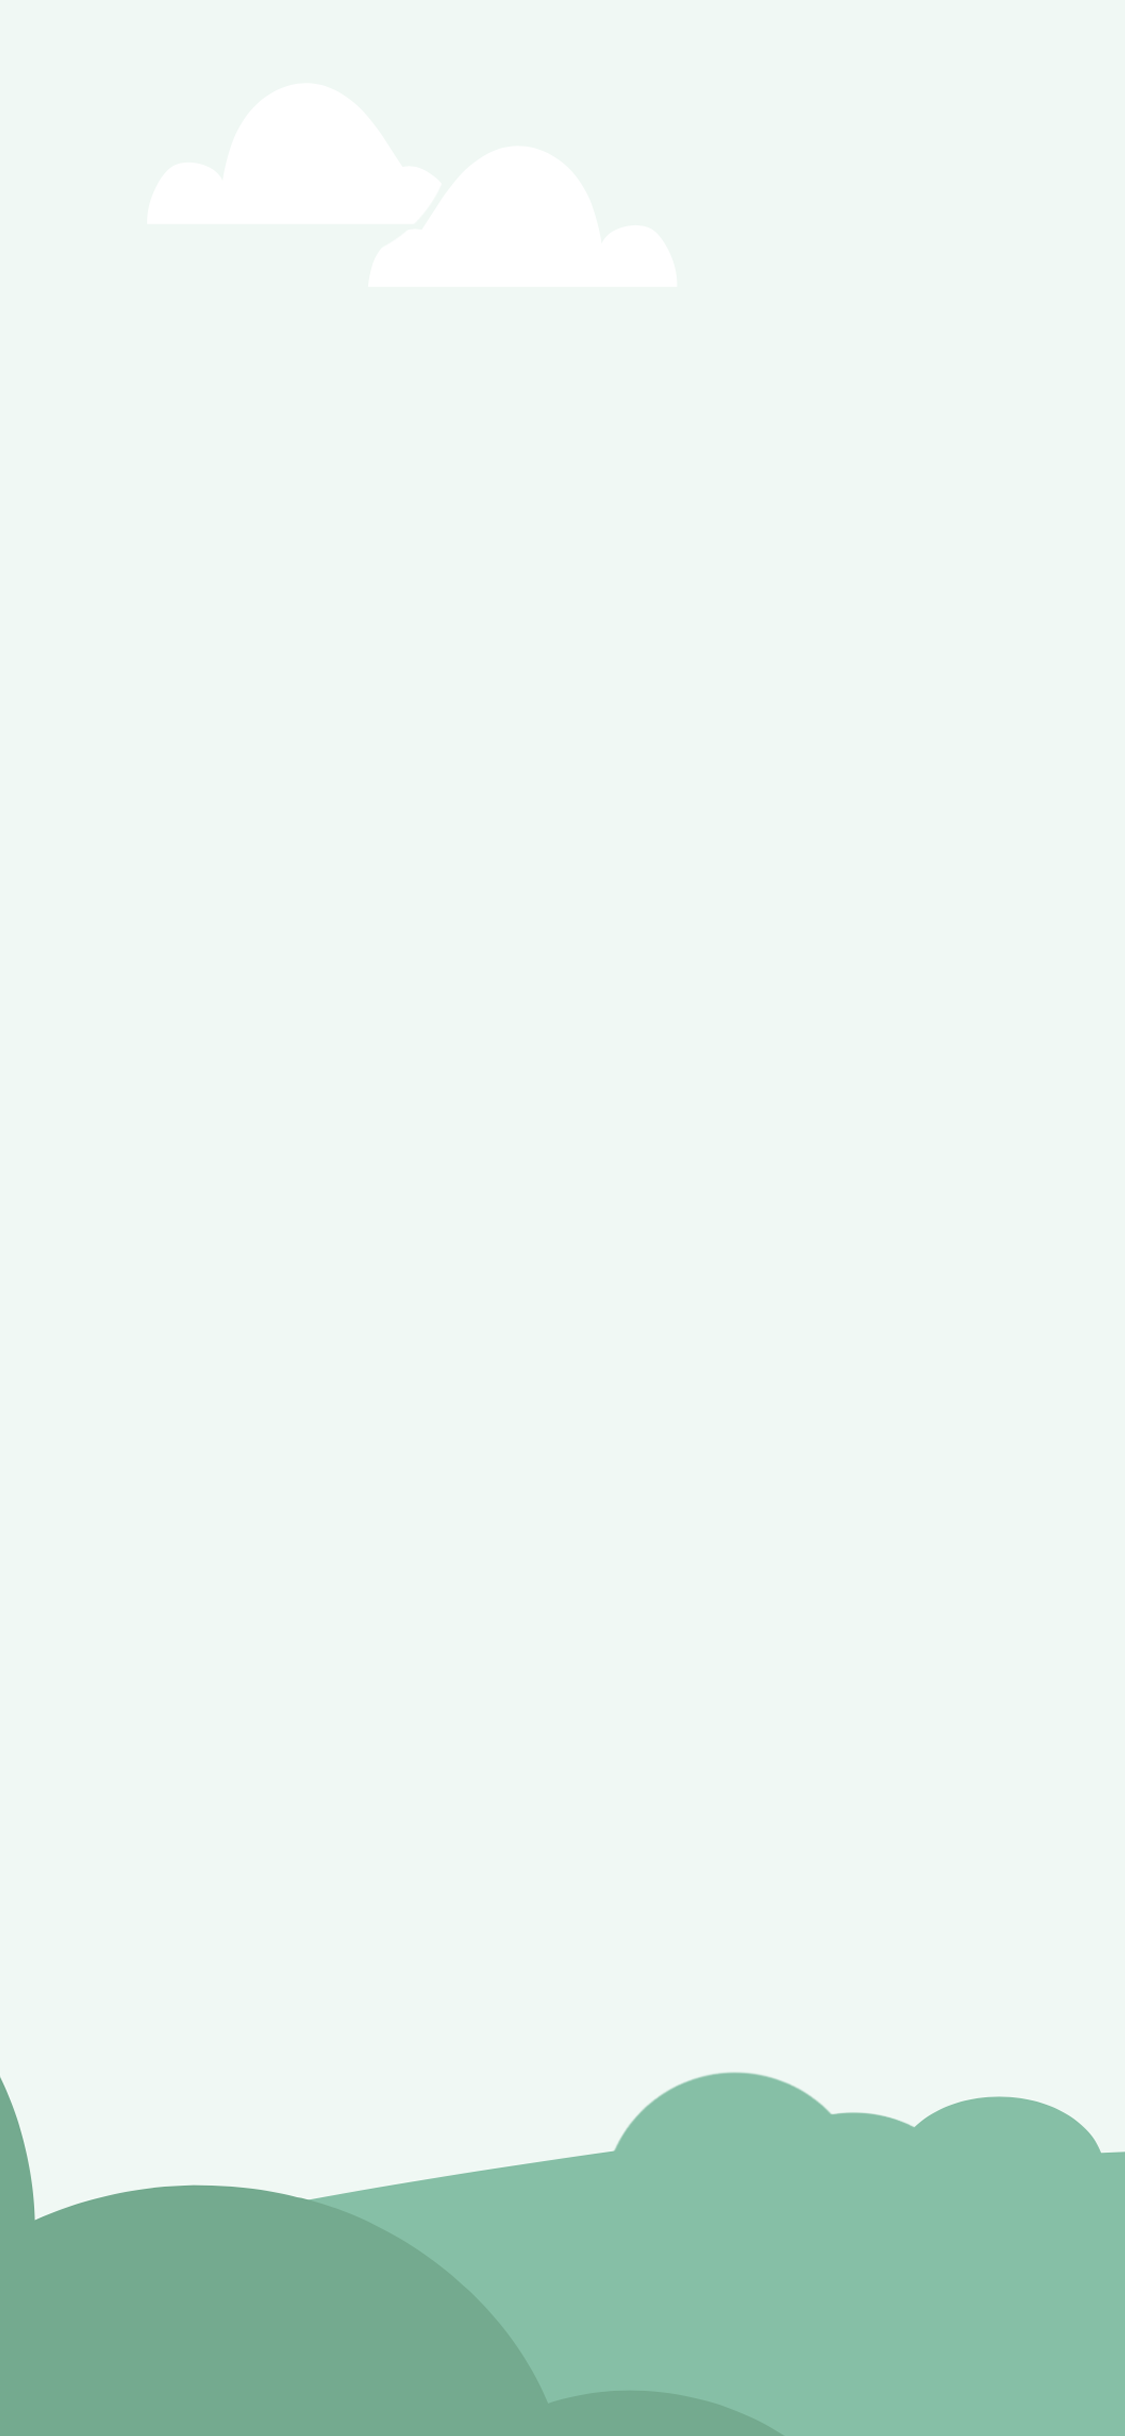
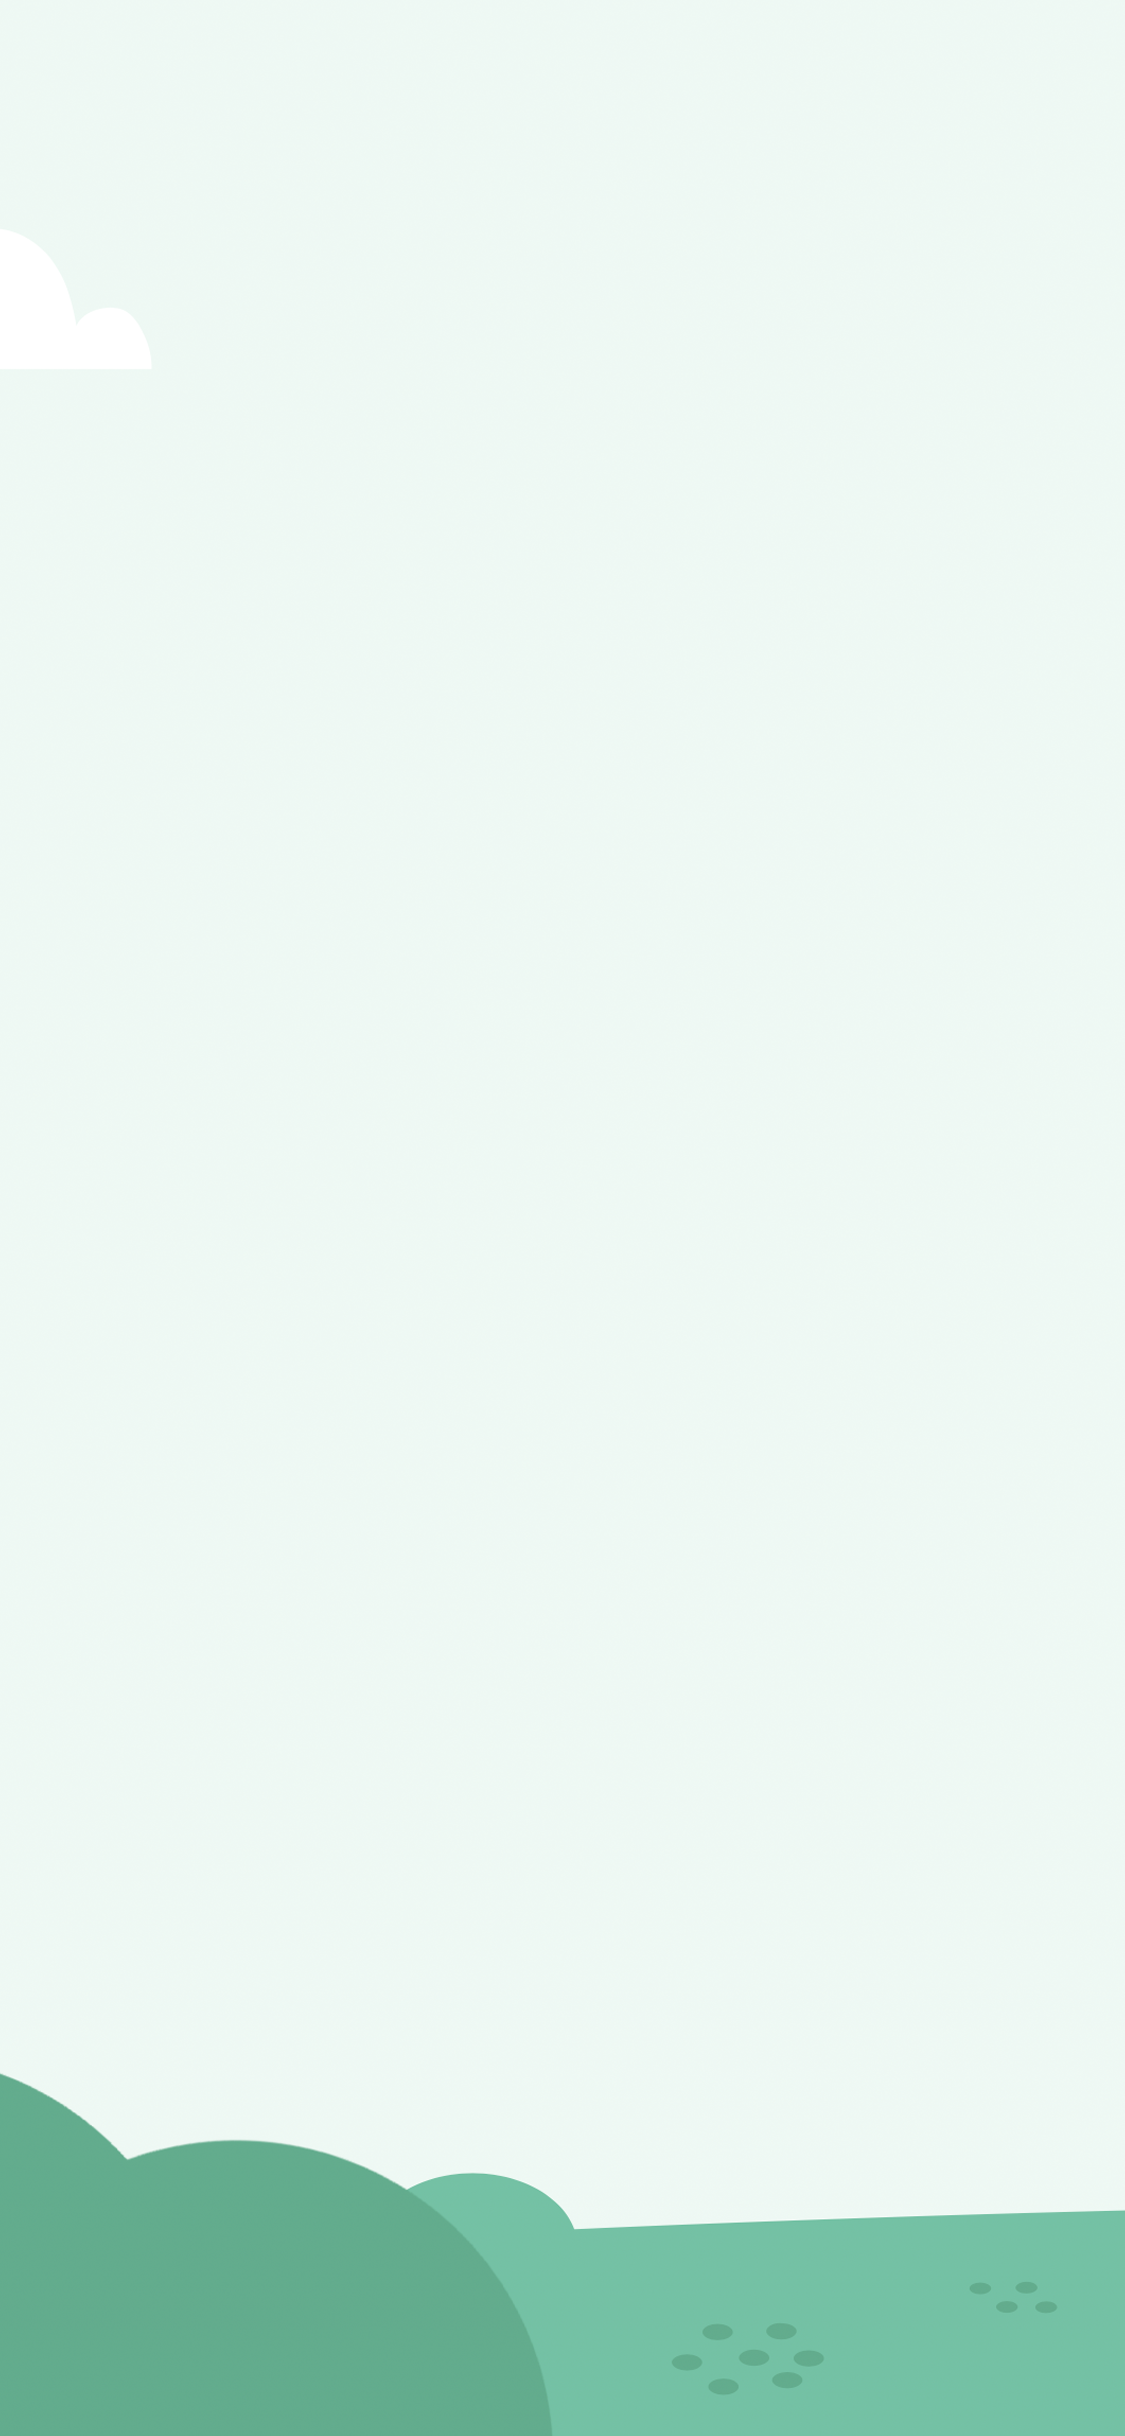
Add new image assets, rename backgrounds, remove old backgrounds

Changed region(s): [[0.4356, 0.8424, 1.0, 0.9984], [0.0, 0.8424, 0.4667, 0.9672], [0.4667, 0.9672, 0.4978, 0.9984]]

diff --git a/lib/pages/setup/wifi_configuration.dart b/lib/pages/setup/wifi_configuration.dart
@@ -60,7 +60,7 @@ class _WifiConfigurationPageState extends State<WifiConfigurationPage> {
     final textTheme = Theme.of(context).textTheme;
     return Scaffold(
       body: CustomBackground(
-        imageURL: "assets/images/FlowersBackground.png",
+        imageURL: "assets/images/wifi_config_screen.png",
         child: Column(
           mainAxisAlignment: MainAxisAlignment.center,
           children: [

diff --git a/lib/pages/setup/wifi_scan.dart b/lib/pages/setup/wifi_scan.dart
@@ -207,7 +207,7 @@ The error was: ${(error as BleOperationFailureException).message}.
       },
       child: Scaffold(
         body: CustomBackground(
-          imageURL: "assets/images/FlowersBackground.png",
+          imageURL: "assets/images/wifi_scan_screen.png",
           child: Column(
             children: [
               ScanList(
